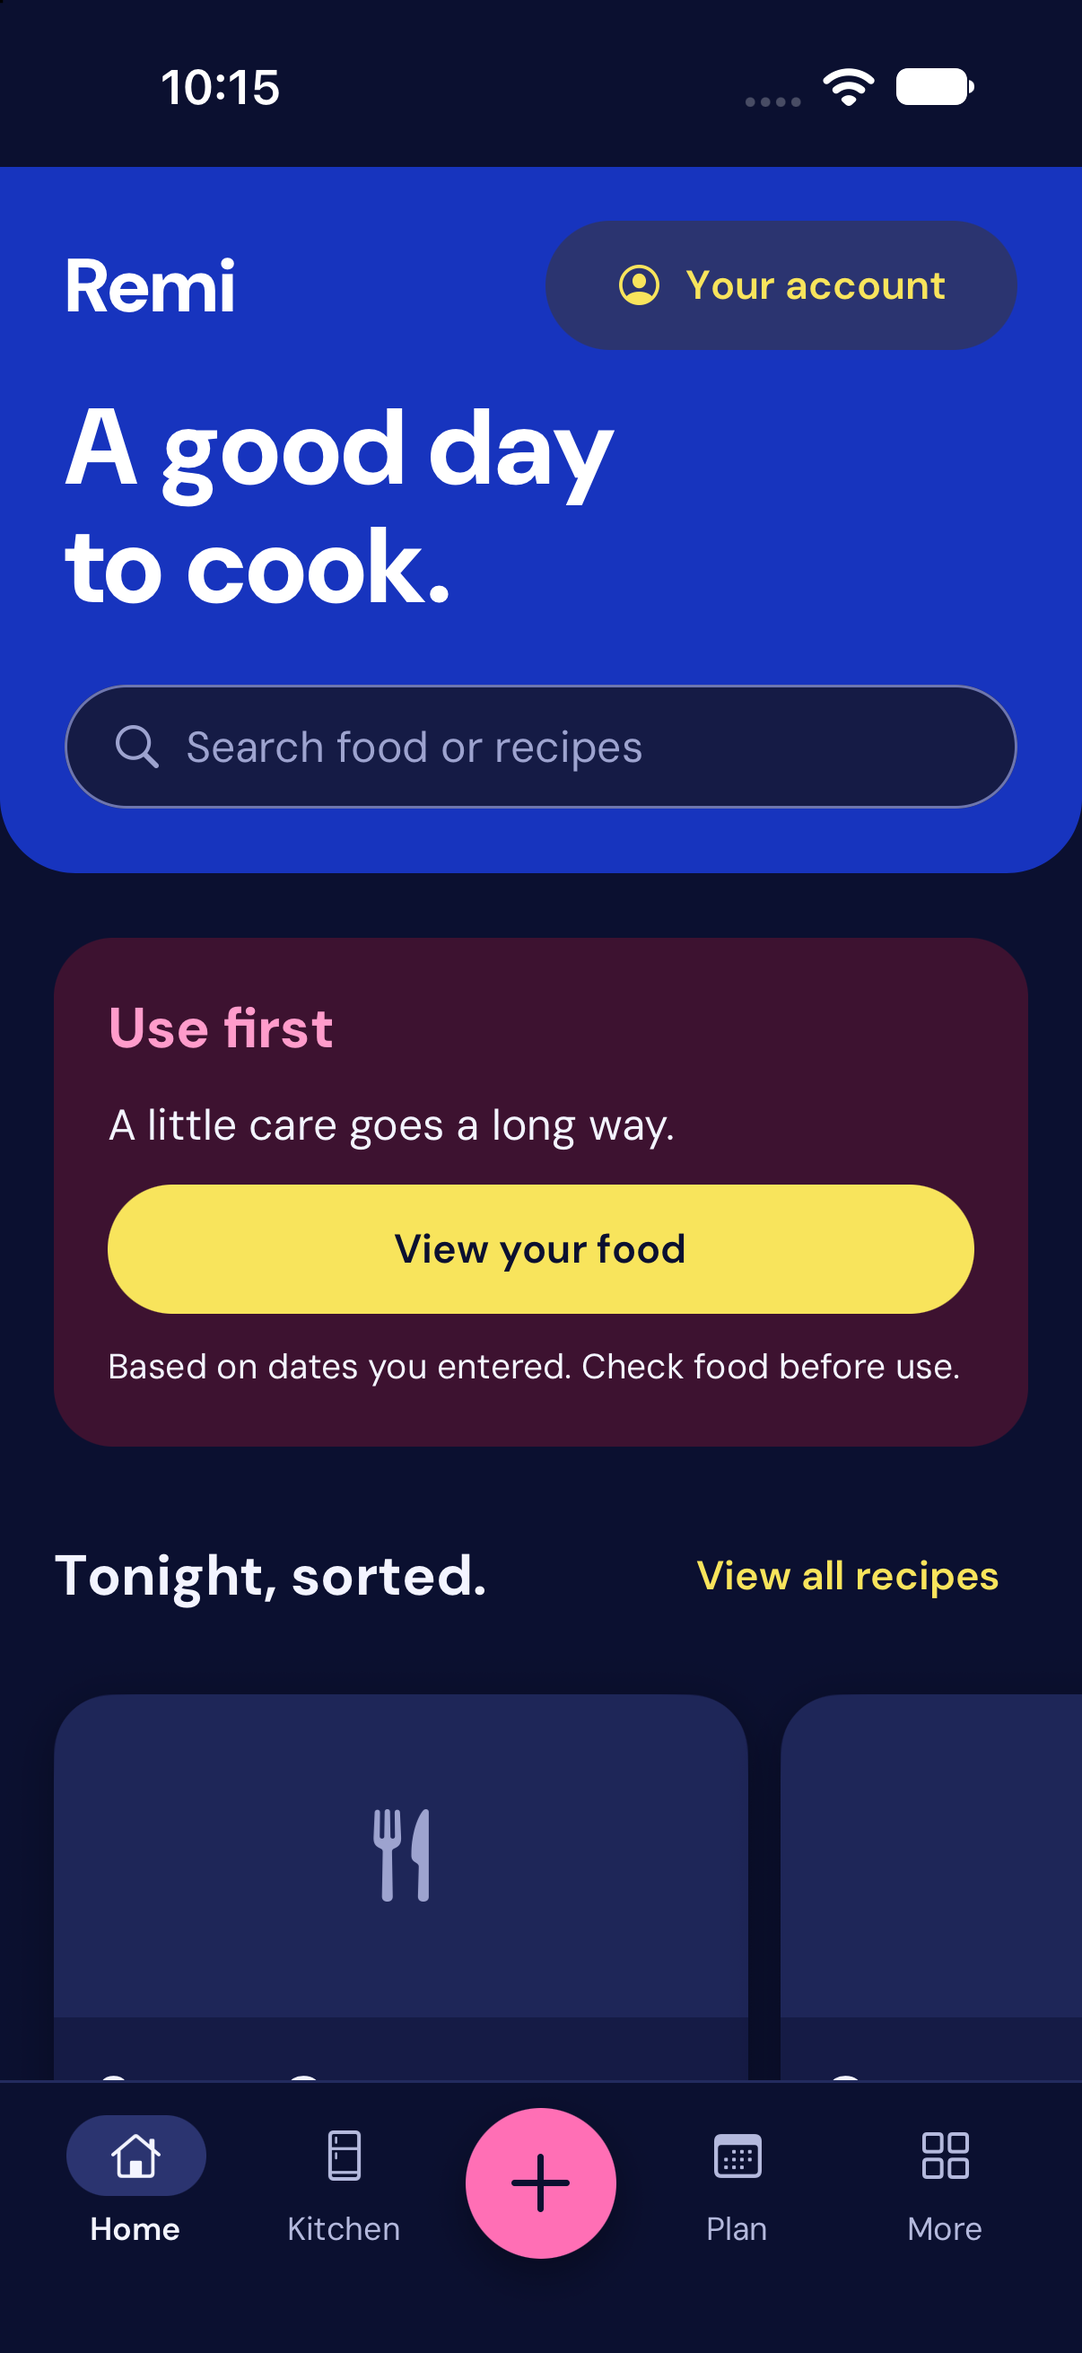
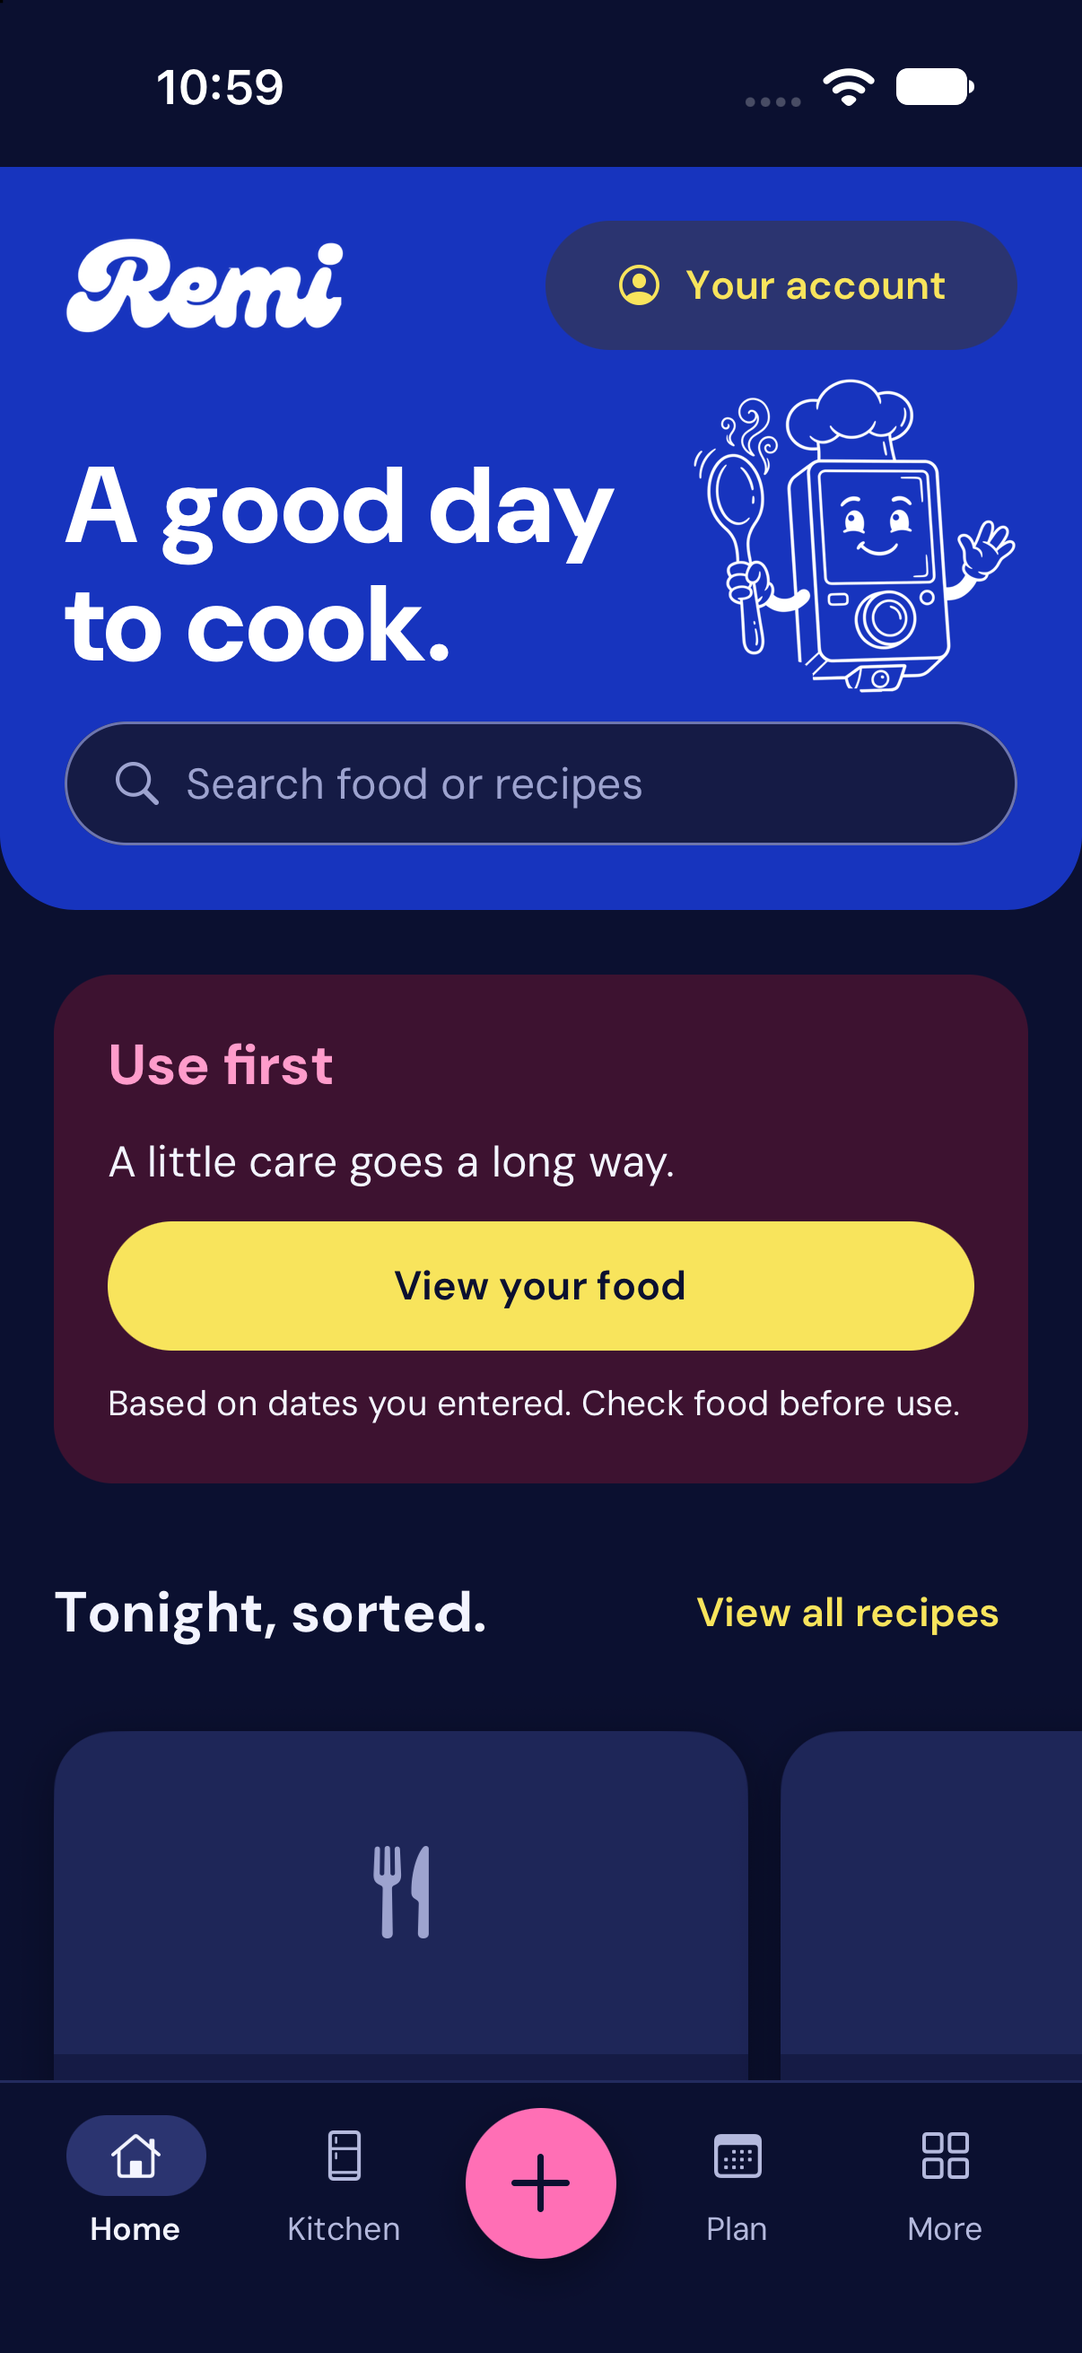
feat(brand): Remi mascot and wordmark across the UI
Tintable logo, wordmark and mascot cut from the logo art (scripts/make-brand-assets.py),
shown via <Brand> on Home, startup, auth header, onboarding welcome and the cook-mode
done card. New logo token: cobalt in light, white in dark.

diff --git a/mobile-app/src/screens/home-screen.tsx b/mobile-app/src/screens/home-screen.tsx
@@ -1,3 +1,5 @@
+import { Brand } from '@/components/brand';
+import { spacing } from '@/theme/tokens';
 import { AppSkeleton } from '@/components/app-skeleton';
 import { BackendHomeRecipeIdeas } from './backend-home-recipe-ideas';
 import { ingredientImage } from '@/data/ingredient-images';
@@ -49,8 +51,8 @@ export default function HomeScreen(_props: { backend?: BackendHomeData } = {}) {
   if (user && (kitchen.status === 'loading' && !kitchen.items.length || data.loading && !data.data)) return <AppSkeleton navigation={false} />;
   return <Screen rtl={rtl} contentGap={24}>
     <View style={{ backgroundColor: colors.hero, marginHorizontal: -20, marginTop: -20, padding: 24, paddingTop: 20, gap: 18, borderBottomLeftRadius: 28, borderBottomRightRadius: 28 }}>
-      <View style={uiStyles.row}><AppText variant="brand" style={{ color: colors.onHero, flex: 1 }}>Remi</AppText><Button label={c('Your account', 'حسابك')} icon="profile" variant="secondary" onPress={() => feature('profile')} /></View>
-      <AppText variant="title" style={{ fontSize: 40, lineHeight: 44, color: colors.onHero, maxWidth: 320 }}>{c('A good day\nto cook.', 'يوم جميل\nللطبخ.')}</AppText>
+      <View style={uiStyles.row}><View style={{ flex: 1 }}><Brand kind="wordmark" height={36} /></View><Button label={c('Your account', 'حسابك')} icon="profile" variant="secondary" onPress={() => feature('profile')} /></View>
+      <View style={[uiStyles.row, { alignItems: 'flex-end', marginVertical: -spacing.sm }]}><AppText variant="title" style={{ fontSize: 40, lineHeight: 44, color: colors.onHero, flex: 1 }}>{c('A good day\nto cook.', 'يوم جميل\nللطبخ.')}</AppText><Brand kind="mascot" height={118} /></View>
       <SearchField value={query} onChangeText={setQuery} placeholder={c('Search food or recipes', 'ابحث عن طعام أو وصفة')} autoCorrect={false} />
     </View>
     {!user ? <Card><AppText variant="heading">{c('Your kitchen, all together.', 'مطبخك في مكان واحد.')}</AppText><AppText>{c('Keep track of what you have, cook something good, and plan a little ahead.', 'تابع طعامك وحضّر وجباتك وخطط للأيام القادمة.')}</AppText><Button label={c('Sign in to your kitchen', 'تسجيل الدخول إلى مطبخك')} onPress={() => router.push('/login')} /><Button label={c('Create an account', 'إنشاء حساب')} variant="text" onPress={() => router.push('/signup')} /></Card> : <>

diff --git a/mobile-app/src/components/app-skeleton.tsx b/mobile-app/src/components/app-skeleton.tsx
@@ -1,3 +1,4 @@
+import { Brand } from './brand';
 import { ScrollView, View, type ColorValue, type DimensionValue } from 'react-native';
 import { SafeAreaView } from 'react-native-safe-area-context';
 import { StatusBar } from 'expo-status-bar';
@@ -5,7 +6,6 @@ import * as SplashScreen from 'expo-splash-screen';
 import Animated, { useReducedMotion } from 'react-native-reanimated';
 import { useRemyTheme } from '@/theme/provider';
 import { useLanguage } from '@/providers/language-provider';
-import { AppText } from './ui/core';
 
 const Pulse = Animated.createAnimatedComponent(View);
 export function AppSkeleton({ navigation = true }: { navigation?: boolean }) {
@@ -16,7 +16,7 @@ export function AppSkeleton({ navigation = true }: { navigation?: boolean }) {
     <StatusBar style={mode === 'dark' ? 'light' : 'dark'} />
     <ScrollView scrollEnabled={false} contentContainerStyle={{ padding: 20, gap: 24, direction: rtl ? 'rtl' : 'ltr' }} accessibilityElementsHidden importantForAccessibility="no-hide-descendants">
       <View style={{ backgroundColor: colors.hero, marginHorizontal: -20, marginTop: -20, padding: 24, gap: 18, borderBottomLeftRadius: 24, borderBottomRightRadius: 24 }}>
-        <AppText variant="brand" style={{ color: colors.onHero }}>Remi</AppText>
+        <Brand kind="wordmark" height={36} />
         <Pulse style={[{ gap: 10 }, !reduced && { animationName: { from: { opacity: 0.5 }, to: { opacity: 0.9 } }, animationDuration: 900, animationDirection: 'alternate', animationIterationCount: 'infinite', animationTimingFunction: 'ease-in-out' }]}>
           {block('75%', 34, colors.onHero)}{block('52%', 34, colors.onHero)}{block('100%', 48, colors.onHero)}
         </Pulse>

diff --git a/mobile-app/src/theme/tokens.ts b/mobile-app/src/theme/tokens.ts
@@ -20,7 +20,7 @@ export const themes = {
     disabledSurface: '#ECECF4', disabledText: '#5E6383',
     navSurface: palette.Paper, navSelected: palette['Lemon Yellow'], modalSurface: '#FFFFFF', overlay: 'rgba(14, 20, 64, 0.45)',
     accent: palette['Hot Pink'], accentText: '#C2146C', onAccent: '#FFFFFF', accentSoft: '#FDE7F1',
-    hero: palette['Lemon Yellow'], onHero: palette.Ink, onHeroMuted: '#3D3A12', shadow: 'rgba(14, 20, 64, 0.10)',
+    logo: palette['Cobalt Blue'], hero: palette['Lemon Yellow'], onHero: palette.Ink, onHeroMuted: '#3D3A12', shadow: 'rgba(14, 20, 64, 0.10)',
     warningSurface: '#FFF6CC', warningText: '#6B5300', successSurface: '#E3F4EA', successText: '#1F5A3A',
     errorSurface: '#FDE7F1', errorText: '#A10F58', destructive: '#B3125F', onDestructive: '#FFFFFF',
     unavailableSurface: '#ECECF4', unavailableText: '#4B5070',
@@ -35,7 +35,7 @@ export const themes = {
     disabledSurface: '#1E2658', disabledText: '#9DA3CF',
     navSurface: palette.Night, navSelected: '#2B3470', modalSurface: '#232C63', overlay: 'rgba(0, 0, 0, 0.65)',
     accent: '#FF6FB5', accentText: '#FF9CCB', onAccent: palette.Night, accentSoft: '#3D1230',
-    hero: palette['Cobalt Blue'], onHero: '#FFFFFF', onHeroMuted: '#DCE2FF', shadow: 'rgba(0, 0, 0, 0.35)',
+    logo: '#FFFFFF', hero: palette['Cobalt Blue'], onHero: '#FFFFFF', onHeroMuted: '#DCE2FF', shadow: 'rgba(0, 0, 0, 0.35)',
     warningSurface: '#3A3415', warningText: palette['Lemon Yellow'], successSurface: '#12352A', successText: '#9BE3BD',
     errorSurface: '#3D1230', errorText: '#FF9CCB', destructive: '#FF9CCB', onDestructive: palette.Night,
     unavailableSurface: '#1E2658', unavailableText: '#B4B9DD',

diff --git a/mobile-app/src/screens/onboarding-screen.tsx b/mobile-app/src/screens/onboarding-screen.tsx
@@ -1,3 +1,4 @@
+import { Brand } from '@/components/brand';
 import { useRef, useState, type ReactNode } from 'react';
 import { router } from 'expo-router';
 import { Image } from 'expo-image';
@@ -63,7 +64,7 @@ export default function OnboardingScreen() {
 
   const steps: { title: string; body: string; content?: ReactNode; cta: string; onNext: () => void; disabled?: boolean }[] = [
     { title: t.welcomeTitle, body: t.welcomeBody, cta: t.start, onNext: () => setStep(1),
-      content: <View style={{ gap: spacing.md }}><Image source={require('../../assets/cookbook/shakshuka.jpg')} contentFit="cover" accessible={false} style={{ width: '100%', height: 240, borderRadius: radii.lg }} /><AppText variant="caption" muted>{t.welcomeTime}</AppText></View> },
+      content: <View style={{ gap: spacing.md }}><View style={{ height: 240, borderRadius: radii.lg, alignItems: 'center', justifyContent: 'center', backgroundColor: colors.hero }}><Brand kind="mascot" height={190} /></View><AppText variant="caption" muted>{t.welcomeTime}</AppText></View> },
     { title: t.householdTitle, body: t.householdBody, cta: t.next, onNext: () => setStep(2),
       content: <View style={uiStyles.wrap}>{Array.from({ length: MAX_HOUSEHOLD }, (_, index) => index + 1).map((size) =>
         <Chip key={size} label={`${size.toLocaleString(language)}${size === MAX_HOUSEHOLD ? '+' : ''} ${size === 1 ? t.person : t.people}`} selected={answers.householdSize === size} onPress={() => set('householdSize', size)} />)}</View> },

diff --git a/mobile-app/src/components/auth-ui.tsx b/mobile-app/src/components/auth-ui.tsx
@@ -1,3 +1,4 @@
+import { Brand } from './brand';
 import { useState, type PropsWithChildren, type Ref } from 'react';
 import { ActivityIndicator, KeyboardAvoidingView, Platform, Pressable, ScrollView, TextInput, View, type TextInputInstance, type TextInputProps } from 'react-native';
 import { SafeAreaView } from 'react-native-safe-area-context';
@@ -17,10 +18,7 @@ export function AuthShell({ title, subtitle, onBack, children }: PropsWithChildr
         <View style={{ width: '100%', maxWidth: 460, gap: 24, direction: language === 'ar' ? 'rtl' : 'ltr' }}>
           <View style={{ flexDirection: 'row', alignItems: 'center', justifyContent: 'space-between' }}>
             <Button label={t.back} icon="back" rtl={language === 'ar'} variant="text" onPress={onBack} />
-            <View style={{ flexDirection: 'row', alignItems: 'center', gap: 8 }}>
-              <View style={{ width: 32, height: 32, borderRadius: 12, backgroundColor: colors.primary, alignItems: 'center', justifyContent: 'center' }}><AppText style={{ color: colors.onPrimary, fontWeight: '800', fontSize: 20 }}>r</AppText></View>
-              <AppText variant="brand">Remi</AppText>
-            </View>
+            <Brand kind="wordmark" height={30} />
           </View>
           <View style={{ gap: 10, paddingTop: 8 }}>
             <AppText variant="title" accessibilityRole="header" style={{ textAlign: language === 'ar' ? 'right' : 'left' }}>{title}</AppText>

diff --git a/mobile-app/src/screens/backend-cooking-screen.tsx b/mobile-app/src/screens/backend-cooking-screen.tsx
@@ -1,3 +1,4 @@
+import { Brand } from '@/components/brand';
 import { scaleMealAmount } from '@/domain/cooked-it';
 import { useEffect, useRef, useState } from 'react';
 import { router, useLocalSearchParams } from 'expo-router';
@@ -54,7 +55,7 @@ export function BackendCookingScreen() {
 
   if (session.finished) return <SafeAreaView style={{ flex: 1, backgroundColor: colors.background }}><View style={{ flex: 1, padding: 20, gap: spacing.lg, justifyContent: 'center', direction: dir }}>
     <View style={{ padding: spacing.xl, gap: spacing.md, borderRadius: radii.lg, backgroundColor: colors.hero }}>
-      <AppText variant="title" accessibilityRole="header" style={{ color: colors.onHero }}>{r.cookingDone}</AppText>
+      <View style={[uiStyles.row, { alignItems: 'flex-end' }]}><AppText variant="title" accessibilityRole="header" style={[uiStyles.grow, { color: colors.onHero }]}>{r.cookingDone}</AppText><Brand kind="mascot" height={96} /></View>
       <AppText variant="label" dir="ltr" style={{ color: colors.onHero }}>{recipe.name}</AppText>
       <AppText dir={dir} style={{ color: colors.onHero }}>{t.summary}</AppText>
     </View>

diff --git a/mobile-app/src/components/brand.tsx b/mobile-app/src/components/brand.tsx
@@ -1,0 +1,17 @@
+import { Image } from 'expo-image';
+import { useRemyTheme } from '@/theme/provider';
+
+// White-on-transparent cuts of the Remi logo (assets/brand), tinted per theme.
+const art = {
+  logo: { source: require('../../assets/brand/logo.png'), ratio: 900 / 1062 },
+  wordmark: { source: require('../../assets/brand/wordmark.png'), ratio: 690 / 238 },
+  mascot: { source: require('../../assets/brand/mascot.png'), ratio: 600 / 585 },
+} as const;
+
+/** The mascot alone is decorative; the logo and wordmark read as "Remi". */
+export function Brand({ kind, height, color }: { kind: keyof typeof art; height: number; color?: string }) {
+  const { colors } = useRemyTheme();
+  const named = kind !== 'mascot';
+  return <Image source={art[kind].source} tintColor={color ?? colors.logo} contentFit="contain" accessible={named} accessibilityRole={named ? 'image' : undefined} accessibilityLabel={named ? 'Remi' : undefined}
+    style={{ height, width: Math.round(height * art[kind].ratio) }} />;
+}

diff --git a/mobile-app/scripts/make-brand-assets.py b/mobile-app/scripts/make-brand-assets.py
@@ -1,0 +1,32 @@
+# Regenerates assets/brand/{logo,wordmark,mascot}.png from the logo artwork.
+# Usage: python3 scripts/make-brand-assets.py assets/brand/source/remi-logo.webp assets/brand  (needs numpy + Pillow)
+# shortcut: the wordmark is cut from the composite art, so the letter tops hidden behind the mascot are
+# reconstructed by hand (erase polygons); replace with a separate wordmark file from the designer when available.
+import sys, numpy as np
+from PIL import Image, ImageFilter, ImageDraw
+src, out = sys.argv[1], sys.argv[2]
+rgb = np.asarray(Image.open(src).convert('RGB')).astype(float)
+bg = np.median(rgb[:50, :50].reshape(-1, 3), axis=0)
+alpha = np.clip((bg[0] - rgb[..., 0]) / (bg[0] - 50), 0, 1); ink = alpha > 0.35
+f = lambda a, flt: np.asarray(Image.fromarray((a * 255).astype('uint8')).filter(flt)) > 0
+thick = f(f(ink, ImageFilter.MinFilter(37)), ImageFilter.MaxFilter(37)); thick[:1150] = False
+L = ink & f(thick, ImageFilter.MaxFilter(9)); L[1560:] = False
+L[1225:1290, 1540:1600] |= ink[1225:1290, 1540:1600]          # thin end of the "i" tail
+def write(mask, name, width, erase=()):
+    ys, xs = np.nonzero(mask); x1, x2, y1, y2 = xs.min() - 6, xs.max() + 6, ys.min() - 6, ys.max() + 6
+    a = Image.fromarray(((alpha * mask)[y1:y2, x1:x2] * 255).astype('uint8'))
+    d = ImageDraw.Draw(a)
+    for poly in erase: d.polygon([(x - x1, y - y1) for x, y in poly], fill=0)
+    img = Image.new('RGBA', a.size, (255, 255, 255, 0)); img.putalpha(a)
+    img = Image.composite(Image.new('RGBA', a.size, (255, 255, 255, 255)), img, a); img.putalpha(a)
+    h = round(a.height * width / a.width); img.resize((width, h), Image.LANCZOS).save(f'{out}/{name}.png', optimize=True)
+    print(name, width, h)
+keep = f(L, ImageFilter.MaxFilter(5)) & (alpha > 0.02)
+ys, xs = np.nonzero(keep); ox, oy = xs.min() - 6, ys.min() - 6     # erase polygons were measured in this crop
+write(keep, 'wordmark', 690, [[(ox + x, oy + y) for x, y in p] for p in (
+    [(380, 0), (475, 0), (475, 110), (438, 110), (433, 95), (426, 73), (414, 50), (401, 38), (386, 29), (376, 25)],
+    [(558, 95), (610, 95), (610, 138), (600, 135), (588, 129), (572, 125), (558, 123)])])
+mascot = ink & ~f(L, ImageFilter.MaxFilter(7)); mascot[1300:] = False
+write(f(mascot, ImageFilter.MaxFilter(5)) & (alpha > 0.02) & ~f(L, ImageFilter.MaxFilter(3)), 'mascot', 600)
+lock = f(ink, ImageFilter.MaxFilter(5)) & (alpha > 0.02); lock[1565:] = False   # whole artwork minus the tagline
+write(lock, 'logo', 900)

diff --git a/VERSION-3.md b/VERSION-3.md
@@ -48,6 +48,7 @@ Legend: ✅ done · ⬜ to do
 | 8 | Shopping list | Compact checkbox rows. "50 g", not "50.000 g" | ✅ | `e7bd839` |
 | 9 | Onboarding and planner | Restyled through the new tokens and components. Planner shows "Dinner · 4 servings" | ✅ | `598eadf` |
 | 10 | Design docs | `DESIGN.md` and `PRODUCT.md` describe the new visual world | ✅ | this commit |
+| 12 | Logo | Remi mascot and wordmark on Home, startup, sign-in, the onboarding welcome and the cook-mode done card, recoloured for each theme | ✅ | this commit |
 | 11 | Verification | Typecheck, lint and 430 tests pass. Simulator screenshots in light, dark and Arabic | ✅ | this commit |
 
 ## Log
@@ -117,13 +118,30 @@ The layout follows Mob's `CookModeScreen` (step pager, progress bar, ingredients
 - Onboarding needed no code changes; it picks up the new tokens and components (`docs/version-3`).
 - The planner's meal line now reads "Dinner · 4 servings" instead of "dinner · 4.00 servings".
 
+### 12. Logo (`assets/brand/`, `src/components/brand.tsx`)
+- The logo artwork (`assets/brand/source/remi-logo.webp`) is split into three white-on-transparent PNGs:
+  - `logo.png`: mascot and wordmark, without the tagline;
+  - `wordmark.png`: "Remi";
+  - `mascot.png`: the chef character.
+- `scripts/make-brand-assets.py` regenerates all three from the source art (numpy + Pillow). Run on the committed source, it reproduces the committed files byte for byte.
+- `<Brand kind height />` recolours the art with the new `logo` token: cobalt in light mode, white in dark mode. The wordmark and full logo are announced to screen readers as "Remi"; the mascot is decorative.
+- Placements:
+  - **Home:** the wordmark replaces the "Remi" text in the hero, and the waving mascot sits beside "A good day to cook."
+  - **Startup skeleton:** shows the wordmark.
+  - **Sign-in and sign-up header:** the wordmark replaces the "r" badge and "Remi" text.
+  - **Onboarding welcome:** the mascot on a lemon panel replaces the shakshuka photo.
+  - **Cook-mode done card:** shows the mascot.
+- **Limitation:** the mascot overlaps the tops of the letters in the original art, so those letter edges were reconstructed by hand. The tops of "e" and "m" are slightly flat as a result. A separate wordmark file from the designer would fix this; drop it into `assets/brand/`.
+- **Checked:** on the iOS Simulator (Home, onboarding and done card in light; Home and onboarding in dark) and on web (sign-in, dark). New screenshots: `light-01-home.png`, `dark-01-home.png`, `light-07-onboarding-logo.png`, `light-08-cook-done-logo.png`.
+- **Not done yet:** the app icon and splash screen still use the old artwork. They are native config and need a new native build.
+
 ## Screenshots
 
 `docs/version-3/`, taken on the iPhone 18 Pro simulator against the local API:
 
 | Light | Dark | Arabic |
 |---|---|---|
-| `light-01-home.png`, `light-03-recipe.png`, `light-04-cook-mode.png`, `light-05-shopping.png`, `light-06-planner.png` | `dark-01-home.png`, `dark-02-cook-mode.png` | `ar-01-home.png`, `ar-02-cook-mode.png` |
+| `light-01-home.png`, `light-03-recipe.png`, `light-04-cook-mode.png`, `light-05-shopping.png`, `light-06-planner.png`, `light-07-onboarding-logo.png`, `light-08-cook-done-logo.png` | `dark-01-home.png`, `dark-02-cook-mode.png` | `ar-01-home.png`, `ar-02-cook-mode.png` |
 
 ## Still to do (next iterations)
 

diff --git a/DESIGN.md b/DESIGN.md
@@ -9,6 +9,8 @@ reference for patterns is the Mob meal-planner app. Full record: `VERSION-3.md`.
 - **Neutrals:** ink #0E1440, paper #FFFDF4, white cards, pale lemon #FCF4C4, pale pink #FDE7F1.
 - **Dark:** navy #0B1030. Cobalt becomes the hero and lemon the action colour.
 
+**Logo.** The Remi chef mascot and its script wordmark (`assets/brand`, `<Brand>`) are single-colour line art: cobalt in light mode, white in dark mode. The wordmark leads the Home hero and auth headers; the waving mascot appears on Home, the onboarding welcome and the cook-mode done card. Keep the mascot as a friendly accent: one per screen, never as a pattern.
+
 **Type.** Static DM Sans cuts: Remi Display 800 for titles, Remi Heading 700, Remi Label 600, DM Sans regular for body. Arabic uses the system font. No serif and no paper grain.
 
 **Shape and depth.**
